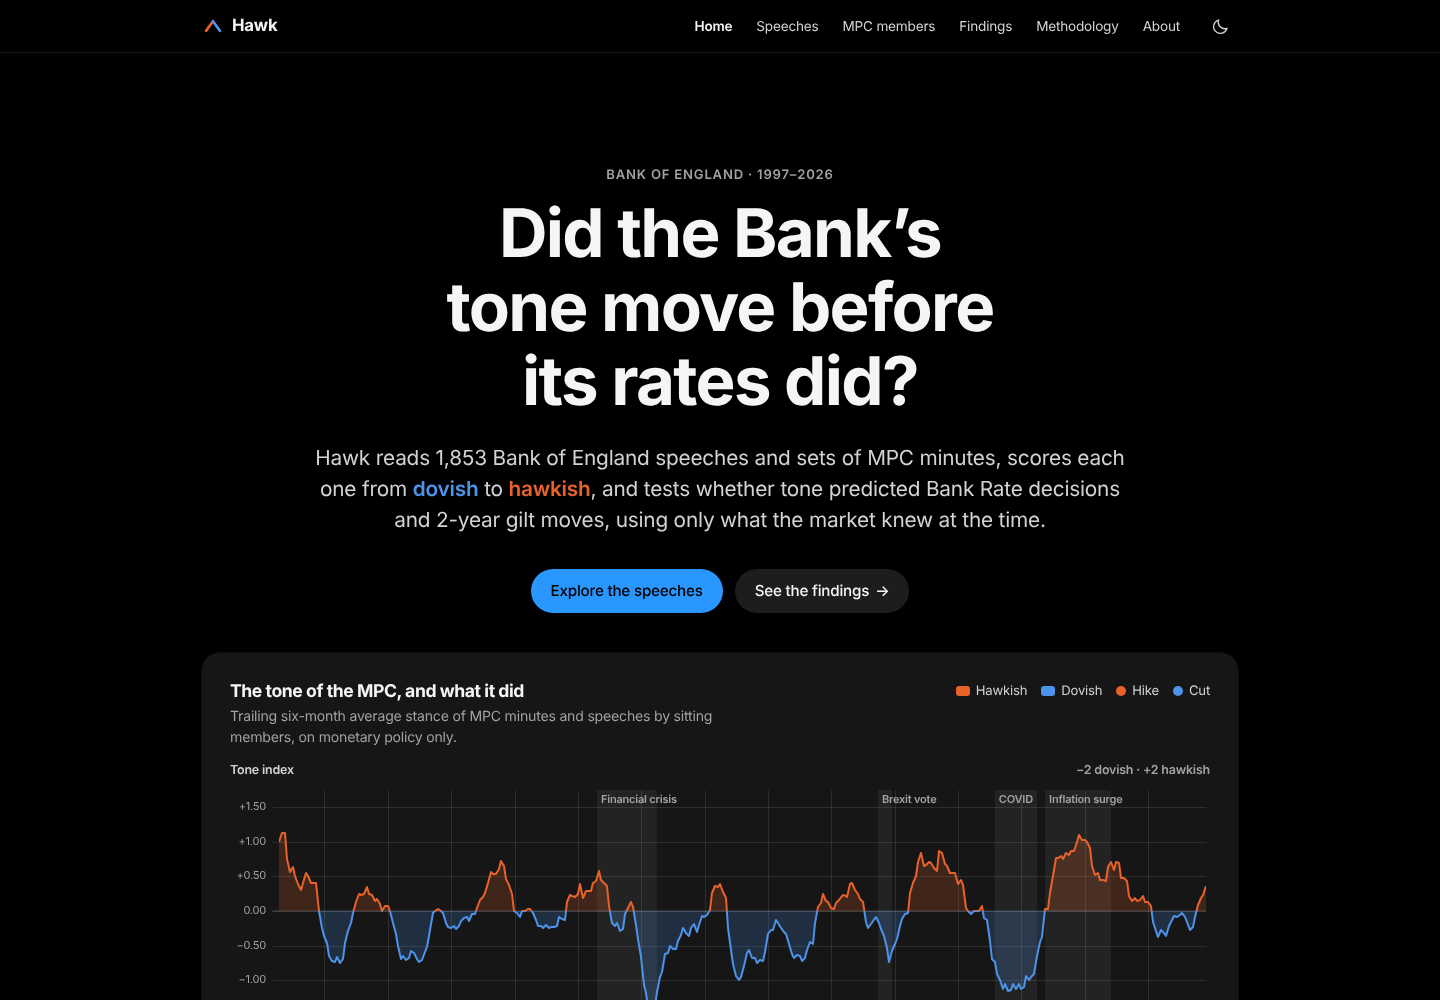
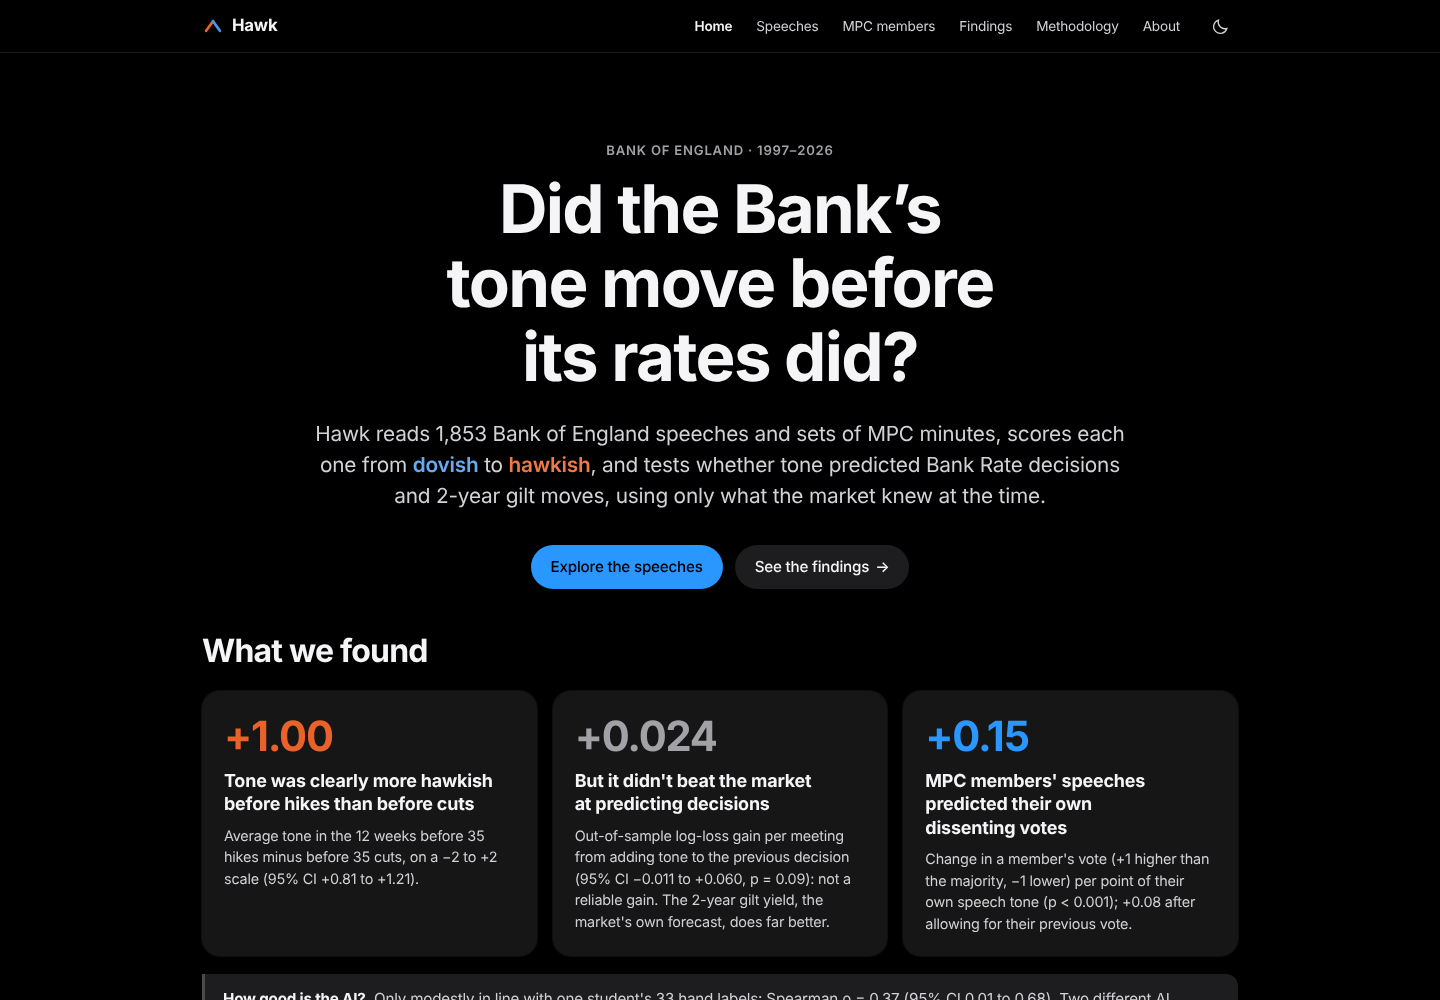
Rewrite the README for recruiters; add demo GIF, citation and changelog
- README: pitch, badges, live-site link, hero chart, key findings with numbers,
  how-it-works diagram, tech stack, exact reproduce commands, repo structure,
  limitations and author section.
- docs/demo.gif (13.5 s, 2.1 MB) recorded with headless Chromium.
- CITATION.cff, docs/CHANGELOG.md, .gitignore additions, Makefile targets for
  findings-json and social-preview.
- Refreshed docs/screenshots/, removed stale example-data screenshots.

Claude-Session: https://claude.ai/code/session_01BM1m766jW3cnLGU3uFAxuP

Changed region(s): [[0.125, 0.62, 0.8438, 1.0], [0.2188, 0.124, 0.7812, 0.62]]

diff --git a/README.md b/README.md
@@ -1,144 +1,147 @@
-# hawk
+# Hawk
 
-Scoring 28 years of Bank of England speeches from hawkish to dovish, and testing whether tone predicted rate moves.
+**Scoring 28 years of Bank of England speeches from dovish to hawkish, and testing whether tone moved before rates did.**
 
-Hawk collects every Bank of England speech and every set of Monetary Policy Committee (MPC)
-minutes since 1997, scores each one on a scale from −2 (very dovish) to +2 (very hawkish),
-and asks a simple markets question: **did the tone of BoE communication shift before rate
-decisions, and did 2-year gilt yields react to tone beyond what the decision itself
-explains?** See [PLAN.md](PLAN.md) for the full plan.
+[![CI](https://github.com/manoselvaks/hawk/actions/workflows/ci.yml/badge.svg)](https://github.com/manoselvaks/hawk/actions/workflows/ci.yml)
+[![Website](https://github.com/manoselvaks/hawk/actions/workflows/pages.yml/badge.svg)](https://github.com/manoselvaks/hawk/actions/workflows/pages.yml)
+[![Licence: MIT](https://img.shields.io/badge/licence-MIT-blue.svg)](LICENSE)
+[![Python 3.11+](https://img.shields.io/badge/python-3.11%2B-blue.svg)](pyproject.toml)
 
-**Website: <https://manoselvaks.github.io/hawk/>**
+### 👉 [Live site: manoselvaks.github.io/hawk](https://manoselvaks.github.io/hawk/)
 
-## Headline results
+![MPC tone and Bank Rate, 1997–2026](docs/img/tone_and_bank_rate.png)
 
-> From the AI scorer (`openai/gpt-6-luna`) over all 1,853 documents. Full write-up with
-> methods, caveats and the same tests on word-list scores: [docs/findings.md](docs/findings.md).
+Hawk collects all 1,853 Bank of England speeches and sets of Monetary Policy Committee
+(MPC) minutes published since 1997. It uses a language model to score each one from −2
+(very dovish) to +2 (very hawkish), then tests the scores against Bank Rate decisions,
+MPC votes and 2-year gilt yields. Every test uses only documents published before the
+date it is about.
 
-- **Tone before hikes is clearly hawkish, before cuts clearly dovish** (+0.53 on a −2..+2
-  scale in the 12 weeks before hikes, −0.12 before holds, −0.48 before cuts; hike minus
-  cut +1.00, 95% CI +0.81 to +1.21). It does not build up in the final weeks before a hike.
-- **Tone does not reliably help forecast the committee's next decision.** Out of sample,
-  from 2003, adding tone to the previous decision improved log loss by +0.024 per meeting
-  (95% CI −0.011 to +0.060). The 2-year gilt yield the day before forecasts far better.
-- **2-year gilts did not move with speech tone**: +0.2 bp per stance point on 709 speech
-  days (95% CI −0.2 to +0.6 bp), no different from random days.
-- **But members' speeches do predict their own dissents.** Members who went on to vote for
-  a higher rate than the majority had spoken at +1.08 on average, those voting lower at
-  −0.86, the majority at −0.15 (p < 0.001; still clear after controlling for the member's
-  previous vote). The word-list scorer missed this.
-- **The AI scorer agrees with one student's 36 blind labels only modestly** (ρ = 0.37,
-  95% CI 0.01–0.68), as does the word-list baseline (0.42); two AI models agree with each
-  other at 0.96. See [docs/evaluation.md](docs/evaluation.md).
+## Key findings
 
-![Tone before hikes, holds and cuts](docs/img/event_study.png)
+- **Tone was clearly more hawkish before hikes than before cuts:** **+1.00** on the −2 to
+  +2 scale in the 12 weeks before a decision (95% CI +0.81 to +1.21). This result passes
+  the multiple-testing threshold.
+- **But tone didn't beat the market at predicting decisions.** Adding tone to the previous
+  decision improved out-of-sample log loss by only **+0.024** per meeting (95% CI −0.011
+  to +0.060, p = 0.09). The 2-year gilt yield already prices it in.
+- **2-year gilts didn't react to speech tone:** **+0.21 bp** per stance point over 709
+  speech days (95% CI −0.23 to +0.65). Random days produce slopes that large.
+- **MPC members' speeches predicted their own dissenting votes:** **+0.152** per point of
+  tone (p < 0.001). The effect is still **+0.078** (p < 0.001) after controlling for the
+  member's previous vote.
 
-## Status
+> **How good is the AI?** It agrees only modestly with my 36 blind hand labels
+> (Spearman ρ = 0.37, 95% CI 0.01–0.68). Two different AI models agree with each other at
+> 0.96. See [docs/evaluation.md](docs/evaluation.md).
 
-| Step | State |
+Full write-up with methods, tables and caveats: [docs/findings.md](docs/findings.md).
+
+![Demo: home chart, speech explorer and an MPC member page](docs/demo.gif)
+
+## How it works
+
+```mermaid
+flowchart LR
+    A["<b>Collect</b><br/>1,853 BoE speeches<br/>and MPC minutes,<br/>Bank Rate, votes,<br/>gilt yields"] --> B["<b>Score</b><br/>LLM stance −2..+2<br/>plus word-list<br/>baseline"]
+    B --> C["<b>Evaluate</b><br/>vs 36 blind<br/>hand labels"]
+    C --> D["<b>Analyse</b><br/>4 pre-registered tests,<br/>no look-ahead"]
+    D --> E["<b>Publish</b><br/>static site on<br/>GitHub Pages"]
+```
+
+1. **Collect** ([`hawk.speeches`](src/hawk/speeches), [`hawk.market`](src/hawk/market)):
+   the collector reads `robots.txt`, rate-limits its requests and caches every download.
+   Market data comes from the Bank's own series.
+2. **Score** ([`hawk.scoring`](src/hawk/scoring)): each document gets a relevance score
+   (is it about monetary policy?) and a stance. The model scores it with the speaker and
+   date hidden. Calls are cached and capped by spend; the full corpus cost $0.59.
+3. **Evaluate**: three models and the baseline are compared against blind hand labels,
+   and a fixed rule chooses the production model
+   ([docs/evaluation.md](docs/evaluation.md)).
+4. **Analyse** ([`hawk.analysis`](src/hawk/analysis)): an event study, an out-of-sample
+   ordered logit, gilt regressions with a placebo test, and a dissent regression. Four
+   primary tests were fixed in advance, with a Bonferroni threshold of p < 0.0125.
+5. **Publish** ([`hawk.site`](src/hawk/site)): a static site with Jinja templates, plain
+   CSS and uPlot. It is rebuilt and deployed on every push to `main`.
+
+## Tech stack
+
+| Area | Tools |
 | --- | --- |
-| Speech and minutes collector | ✅ built (`src/hawk/speeches/`) |
-| Market data (Bank Rate, gilt yields, MPC votes) | ✅ built (`src/hawk/market/`) |
-| Tone scoring (word list + LLM) | ✅ built, evaluated and run on the full corpus (`src/hawk/scoring/`, `data/scores.parquet`) |
-| Hand labels for evaluation | ✅ 36 blind labels (`labelling/labels.csv`) |
-| Analysis | ✅ built, tested and run on the AI scores (`src/hawk/analysis/`, [docs/findings.md](docs/findings.md)) |
-| Website | ✅ built on the final scores (`src/hawk/site/`) |
+| Language | Python 3.11+ |
+| Data | pandas, pyarrow (Parquet), requests, BeautifulSoup, lxml, pypdf |
+| Statistics | statsmodels (ordered logit, Newey-West, clustered SEs), SciPy, bootstrap CIs |
+| AI scoring | LLMs through the OpenRouter API, with a cached and budget-capped client |
+| Website | Jinja2, Markdown, uPlot, plain CSS/JS, GitHub Pages |
+| Quality | pytest (offline fixtures), mypy `--strict`, ruff, GitHub Actions, Lighthouse |
 
-## Install
+## Reproduce it
 
-Requires Python 3.11 or newer.
+Everything below runs offline from the committed data. No API key is needed unless you
+re-score.
 
 ```bash
 git clone https://github.com/manoselvaks/hawk.git
 cd hawk
 python -m venv .venv && source .venv/bin/activate
 pip install -e ".[dev]"
+
+make check                          # ruff, mypy --strict, pytest
+python -m hawk.analysis.run         # re-run every test on data/scores.parquet
+python -m hawk.site.serve           # build the site and open http://localhost:8000
 ```
 
-## Collect the speeches and minutes
+Optional steps:
 
 ```bash
-python -m hawk.speeches.collect                                  # full rebuild
-python -m hawk.speeches.collect --limit-speeches 20 --limit-minutes 10   # quick smoke run
+python -m hawk.speeches.collect     # re-collect the corpus (about 1 hour, polite rate limit)
+python -m hawk.market.collect       # refresh Bank Rate, votes and gilt yields
+export OPENROUTER_API_KEY=...       # then re-score (prints the cost first)
+python -m hawk.scoring.score_all --confirm
+make screenshots                    # docs/screenshots/ (needs Node and Playwright)
 ```
 
-(or `make collect` / `make collect-sample`). This writes `data/speeches.parquet` and
-`data/minutes.parquet` (1,544 speeches and 315 sets of minutes in the committed build);
-see [data/README.md](data/README.md) for the fields, per-year counts and known gaps.
+## Repo structure
 
-The collector is built to be a good citizen of the BoE website:
-
-- it identifies itself with a `User-Agent` that links back to this repository;
-- it reads `robots.txt` first, obeys it (including any `Crawl-delay`), and discovers pages
-  from the sitemaps listed there;
-- it waits at least one second between requests (`--min-interval` to slow it further);
-- every download is cached in `data/raw/` (gitignored), so an interrupted run can simply be
-  restarted and will pick up where it left off without re-downloading anything.
-
-Older speeches and minutes are often short web pages that link to a PDF; when a page has
-little text and links to a PDF, the PDF's text is used instead.
-
-## Score tone
-
-Each document gets a **relevance** (0–1: is it about monetary policy?) and a **stance**
-(−2 very dovish to +2 very hawkish), from two scorers: a transparent word-list baseline
-and an LLM through OpenRouter. See [docs/methodology.md](docs/methodology.md) for the
-design, and [docs/pilot.md](docs/pilot.md) for the model comparison.
-
-```bash
-python -m hawk.scoring.pilot                       # compare candidate models on 20 documents
-python -m hawk.scoring.make_labelling_set          # build labelling/label.html
-python -m hawk.scoring.evaluate --labels labelling/labels.csv --model MODEL   # one model vs hand labels
-python -m hawk.scoring.compare --labels labelling/labels.csv --models M1 M2 M3  # compare, choose (no API)
-python -m hawk.scoring.score_all                   # prints the cost estimate; --confirm to run
+```text
+hawk/
+├── src/hawk/
+│   ├── speeches/      # BoE speech and minutes collector
+│   ├── market/        # Bank Rate, MPC votes, gilt yields
+│   ├── scoring/       # word-list baseline, LLM scorer, labelling and evaluation
+│   ├── analysis/      # event study, prediction, market and dissent tests, charts
+│   └── site/          # static website (templates, CSS, JS)
+├── data/              # corpus, scores, market data and analysis outputs (committed)
+├── labelling/         # blind labelling tool and the 36 hand labels
+├── docs/              # findings, methodology, evaluation, data contract, images
+├── tests/             # offline tests with real BoE page fixtures
+└── scripts/           # screenshot helper
 ```
 
-## Analysis
+More detail: [methodology](docs/methodology.md), [data contract](docs/data-contract.md),
+[data notes](data/README.md), [changelog](docs/CHANGELOG.md).
 
-```bash
-python -m hawk.analysis.run                     # on data/scores.parquet
-python -m hawk.analysis.run --scorer baseline   # on word-list scores, no API needed
-```
+## Limitations
 
-Builds the meeting-level dataset (tone from documents published strictly before each
-decision, never that meeting's own minutes), then runs the event study, the
-out-of-sample prediction test, the gilt market-reaction test and the dissent test. Writes
-`data/analysis/findings.json` for the site, `findings_detail.json` and the charts in
-`docs/img/`. See [docs/findings.md](docs/findings.md).
+- **Small samples.** There are 315 decisions, about 70 of which are rate changes, and 36
+  hand labels. "No evidence" means "no effect large enough to see", not "no effect".
+- **One labeller.** The AI's agreement with the labels is modest, and the labels are one
+  student's reading.
+- **The model knows history.** Hiding the speaker and date reduces the risk that the
+  model recognises a speech and knows what happened next, but cannot remove it. This
+  matters most for the dissent result.
+- **Daily data.** Yields are end-of-day closes, speech times are unknown and same-day data
+  releases are not controlled for.
+- **Correlation, not causation.** Tone and decisions both respond to the same economic news.
 
-LLM calls are cached in `data/llm_cache/` and every call's cost is logged in
-`data/llm_spend.jsonl`; the scorer refuses to run past a spend cap ($4 by default,
-`--spend-cap` or `HAWK_SPEND_CAP_USD` to change). Set `OPENROUTER_API_KEY` to run
-locally.
+## Author
 
-## Website
+Built by **Manoj**, a finance student in London interested in markets and macro.
 
-A static site (home chart, speech explorer, MPC member pages, findings, methodology)
-built from the data files with Jinja templates, plain CSS and [uPlot](https://github.com/leeoniya/uPlot):
+- GitHub: [@manoselvaks](https://github.com/manoselvaks)
+<!-- TODO(Manoj): add your LinkedIn, e.g.
+- LinkedIn: [Manoj](https://www.linkedin.com/in/your-profile/)
+-->
 
-```bash
-make site                      # or: python -m hawk.site.build  -> site/_build/
-python -m hawk.site.serve      # build and preview on http://localhost:8000
-make screenshots               # docs/screenshots/ (needs Node + Playwright)
-```
-
-Until `data/scores.parquet` exists the site is built with demo scores and says
-"Preview" on every page. The files it reads are specified in
-[docs/data-contract.md](docs/data-contract.md). The **Website** workflow
-(`.github/workflows/pages.yml`) deploys it to GitHub Pages on every push to `main`.
-
-![Home page](docs/screenshots/home-desktop-light.png)
-
-## Development
-
-```bash
-make check   # ruff (lint + format), mypy (strict) and pytest
-```
-
-Tests run fully offline against trimmed copies of real BoE pages, a sitemap excerpt and
-the first pages of two real PDFs, in `tests/speeches/fixtures/`.
-CI runs the same checks on every push and pull request.
-
-## Licence
-
-MIT, see [LICENSE](LICENSE).
+If you use Hawk, please cite it ([CITATION.cff](CITATION.cff)). Not affiliated with the
+Bank of England. Code under the [MIT licence](LICENSE).

diff --git a/docs/CHANGELOG.md b/docs/CHANGELOG.md
@@ -1,0 +1,41 @@
+# Changelog
+
+A short history of the project, one entry per merged pull request.
+
+## 2026-10-24: Polish for recruiters
+
+- Home page leads with the three main findings as tiles, with the AI's accuracy in a
+  visible line underneath; the findings page gives the dissent result its own section
+  with a chart and its two cautions.
+- Content is visible by default (the reveal animation is now progressive enhancement).
+- Lighthouse 100 for performance, accessibility, best practices and SEO on the home,
+  speeches and findings pages (colour contrast and a layout shift fixed).
+- README rewritten; demo GIF, social preview image, `CITATION.cff` and this changelog.
+
+## 2026-10-24: Evaluation, final findings and go-live (#6)
+
+- 36 blind hand labels; GPT-6 Luna chosen as the production scorer (tied on agreement
+  with the best model, and cheapest).
+- All 1,853 documents scored for $0.59; the four primary tests run on the AI scores.
+- Two primary results pass the multiple-testing threshold (event study, dissent); the
+  prediction and gilt tests are null. Site switched from preview to final scores.
+
+## 2026-10-19: Static website (#5)
+
+- Jinja + uPlot static site: home chart, speech explorer, MPC member pages, findings
+  and methodology, deployed to GitHub Pages on every push to `main`.
+
+## 2026-10-18: Scoring design (#4)
+
+- Word-list baseline, LLM scorer through OpenRouter with caching and a spend cap,
+  blind labelling tool and evaluation harness.
+
+## 2026-10-18: First real data collection (#3)
+
+- 1,544 speeches and 315 sets of MPC minutes collected from the Bank of England site.
+
+## 2026-10-18: Market data (#1) and collector (#2)
+
+- Bank Rate, MPC decisions and votes, and 2-year gilt yields from the Bank's own data.
+- Project scaffold, polite speech and minutes collector (robots.txt, rate limiting,
+  download cache), CI with ruff, mypy and pytest.
